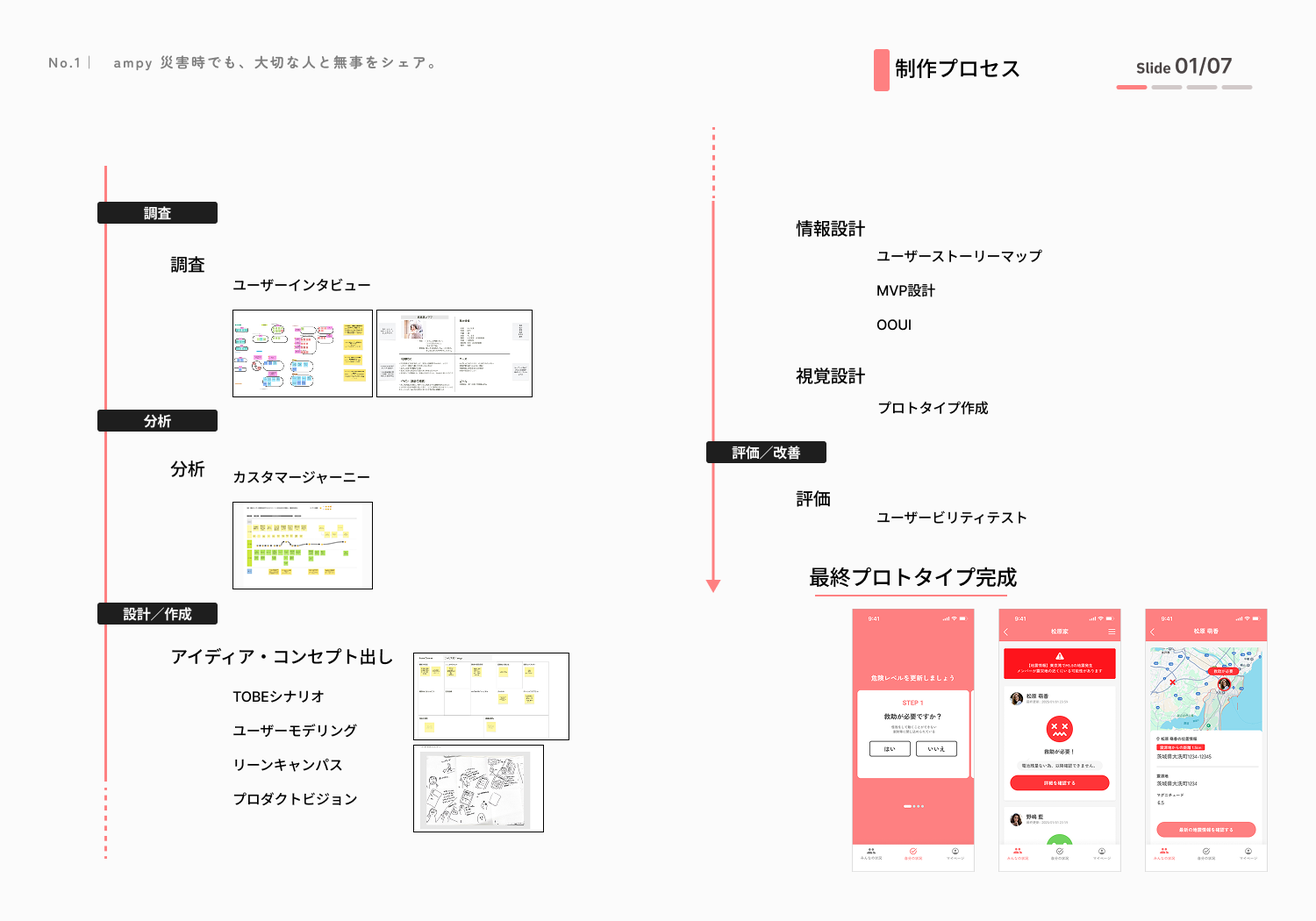
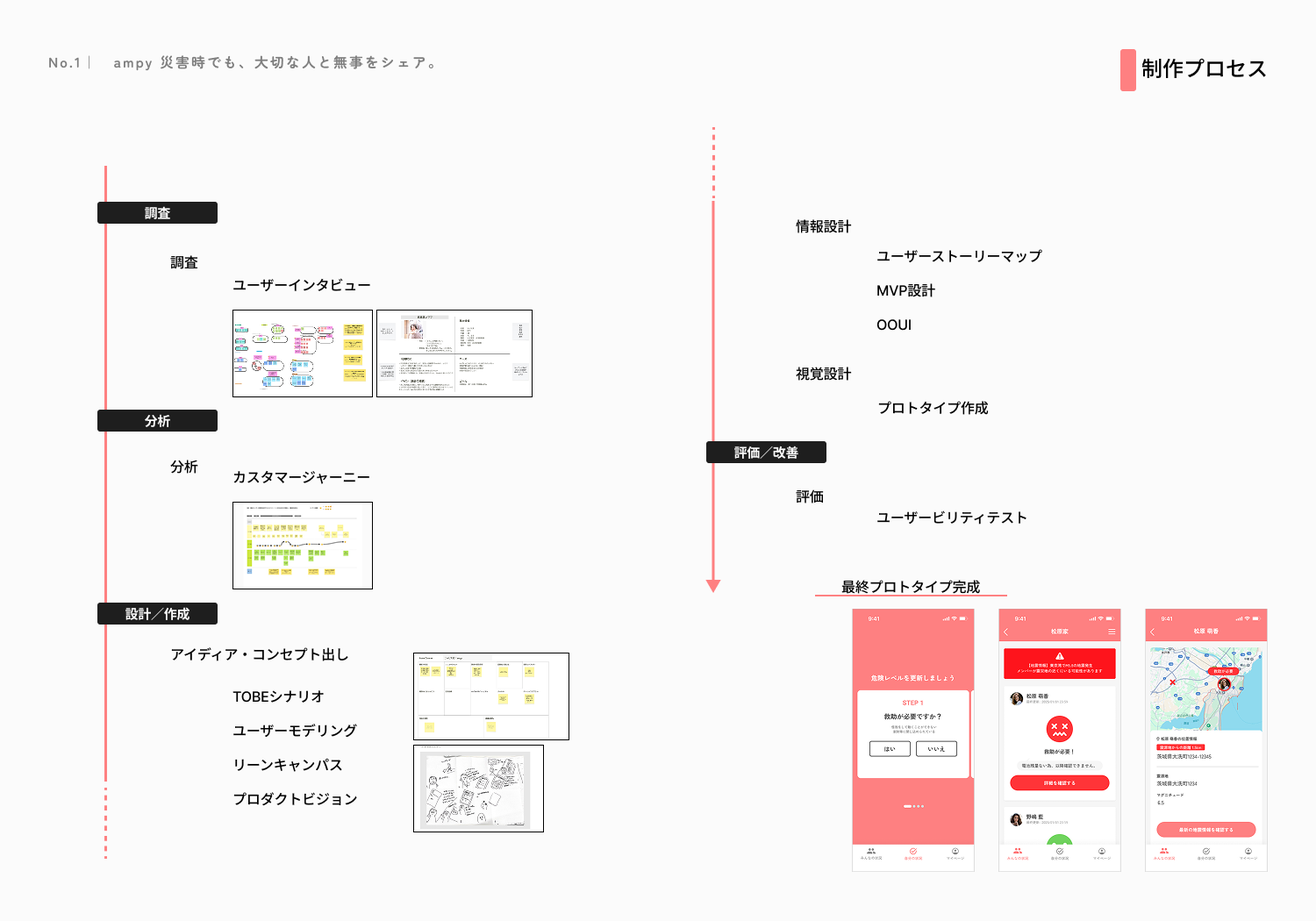
react update

diff --git a/index.html b/index.html
@@ -12,6 +12,7 @@
   --muted:#666660;--line:#d8d8d0;--line2:#b0b0a8;
   --ampy:#d94f47;--ampy-bg:#fdf1f0;
   --wheel:#652634;--wheel-bg:#f5edef;
+  --react:#6B1E2E;--react-bg:#f5ebec;
   --serif:"Noto Serif JP",serif;--sans:"Noto Sans JP",sans-serif;
   --mono:"DM Mono",monospace;--r:6px;
 }
@@ -114,22 +115,25 @@ header{position:sticky;top:0;z-index:200;background:rgba(255,255,255,0.97);backd
 .callout{padding:18px 22px;border-radius:var(--r);margin:18px 0;border-left:3px solid}
 .callout.red{border-color:var(--ampy);background:var(--ampy-bg)}
 .callout.dark{border-color:var(--wheel);background:var(--wheel-bg)}
+.callout.react{border-color:var(--react);background:var(--react-bg)}
 .callout.neutral{border-color:var(--line2);background:var(--off)}
 .callout-title{font-size:12px;font-weight:600;margin-bottom:6px}
 .callout p{font-size:13px;color:var(--ink2);margin-bottom:4px;line-height:1.7}
 
 /* PULL QUOTE */
 .pull-quote{margin:28px 0;padding:0 0 0 22px;border-left:2px solid}
-.pull-quote.red{border-color:var(--ampy)}.pull-quote.dark{border-color:var(--wheel)}
+.pull-quote.red{border-color:var(--ampy)}.pull-quote.dark{border-color:var(--wheel)}.pull-quote.react{border-color:var(--react)}
 .pull-quote-text{font-family:var(--serif);font-size:22px;font-weight:500;line-height:1.55}
 
 /* PAIN CARDS */
 .pain-grid{display:grid;grid-template-columns:repeat(3,1fr);gap:16px;margin:24px 0}
 .pain-card{padding:24px 20px;border:2px solid var(--ampy);border-radius:var(--r);background:var(--ampy-bg)}
 .pain-card.wheel{border-color:var(--wheel);background:var(--wheel-bg)}
+.pain-card.react{border-color:var(--react);background:var(--react-bg)}
 .pain-num{font-family:var(--mono);font-size:10px;letter-spacing:0.1em;text-transform:uppercase;color:var(--muted);margin-bottom:8px}
 .pain-title{font-size:16px;font-weight:700;color:var(--ampy);margin-bottom:10px;line-height:1.4}
 .pain-title.wheel{color:var(--wheel)}
+.pain-title.react{color:var(--react)}
 .pain-reason{font-size:12px;color:var(--muted);margin-bottom:10px;line-height:1.6}
 .pain-why{font-size:12px;color:var(--ink2);padding-top:10px;border-top:1px solid rgba(0,0,0,0.08);line-height:1.6}
 
@@ -268,7 +272,7 @@ header{position:sticky;top:0;z-index:200;background:rgba(255,255,255,0.97);backd
 <div class="panel active" id="tab-works">
   <div class="works-panel">
     <div class="works-intro fade-up">
-      <p>リサーチから課題定義、UI設計まで一貫して取り組んだプロジェクトを掲載しています。2案件を通じて、社会課題解決とアクセシビリティという異なるテーマへのアプローチを整理しました。</p>
+      <p>リサーチから課題定義、UI設計まで一貫して取り組んだプロジェクトを掲載しています。3案件を通じて、社会課題解決・アクセシビリティ・エンタメ体験設計という異なるテーマへのアプローチを整理しました。</p>
     </div>
     <div class="works-grid">
       <div class="proj-card fade-up" onclick="openProject('ampy')">
@@ -306,6 +310,26 @@ header{position:sticky;top:0;z-index:200;background:rgba(255,255,255,0.97);backd
           <div class="proj-card-meta">
             <span class="proj-meta-item">UXリサーチ</span>
             <span class="proj-meta-item">情報設計</span>
+            <span class="proj-meta-item">個人制作</span>
+          </div>
+          <div class="proj-card-cta"><span class="cta-label">ケーススタディを読む</span><span class="cta-arrow">→</span></div>
+        </div>
+      </div>
+      <div class="proj-card fade-up" style="transition-delay:0.16s" onclick="openProject('react')">
+        <div class="proj-card-thumb">
+          <img src="https://raw.githubusercontent.com/scent428/portfolio/main/assets/images/works/react/cover/react_cover.png" alt="Re:ACT">
+        </div>
+        <div class="proj-card-body">
+          <div class="proj-tag-row">
+            <div class="proj-dot" style="background:#6B1E2E"></div>
+            <span class="proj-tag-text">観劇体験記録アプリ</span>
+          </div>
+          <div class="proj-card-title">Re:ACT</div>
+          <div class="proj-card-desc">幕が降りても終わらない、あなたの観劇録。インタビューと複数のHMWから設計した観劇体験記録アプリ。</div>
+          <div class="proj-card-focus">フォーカス：<span>リサーチ / コンセプト設計 / UIデザイン</span></div>
+          <div class="proj-card-meta">
+            <span class="proj-meta-item">UXリサーチ</span>
+            <span class="proj-meta-item">UIデザイン</span>
             <span class="proj-meta-item">個人制作</span>
           </div>
           <div class="proj-card-cta"><span class="cta-label">ケーススタディを読む</span><span class="cta-arrow">→</span></div>
@@ -964,6 +988,311 @@ header{position:sticky;top:0;z-index:200;background:rgba(255,255,255,0.97);backd
           <li>「区間表示」vs「全体表示」のA/Bテストで判断コストの変化を測定する</li>
           <li>通過実績データ蓄積後にユーザビリティテストを実施し「判断できた」体験を測定する</li>
           <li>視覚障害・高齢者など他のアクセシビリティニーズへの応用可能性を検討する</li>
+        </ul>
+      </div>
+    </div>
+
+  </div>
+</div>
+
+
+<!-- ════ PROJECT: react ════ -->
+<div class="detail-panel" id="proj-react">
+  <div class="detail-header">
+    <button class="back-btn" onclick="closeProject()">← 戻る</button>
+    <span class="detail-breadcrumb">作品集 / <span>Re:ACT</span></span>
+  </div>
+  <div class="detail-hero">
+    <div class="detail-eyebrow">
+      <div class="proj-dot" style="background:#6B1E2E;width:7px;height:7px;border-radius:50%"></div>
+      <span style="font-family:var(--mono);font-size:10px;letter-spacing:0.1em;text-transform:uppercase;color:var(--muted)">観劇体験記録アプリ</span>
+    </div>
+    <div class="detail-title">Re:ACT</div>
+    <div class="detail-subtitle">幕が降りても終わらない、あなたの観劇録。</div>
+    <div class="detail-meta-bar">
+      <div class="dmeta"><div class="dmeta-key">担当領域</div><div class="dmeta-val">UXリサーチ・インタビュー分析・コンセプト設計・UIデザイン</div></div>
+      <div class="dmeta"><div class="dmeta-key">形式</div><div class="dmeta-val">個人制作</div></div>
+      <div class="dmeta"><div class="dmeta-key">ツール</div><div class="dmeta-val">Figma / FigJam</div></div>
+    </div>
+  </div>
+  <div class="detail-body">
+
+    <!-- 完成プロトタイプ -->
+    <div class="ds fade-up">
+      <div class="ds-label"><span>完成プロトタイプ</span></div>
+      <div class="ds-body"><p>公演情報・写真・感想を1つの体験として記録・保存する観劇記録アプリ。記録一覧・チケット詳細・新規登録の3画面で構成しています。</p></div>
+      <div class="mockup-row">
+        <div class="mockup-item zoomable">
+          <img src="https://raw.githubusercontent.com/scent428/portfolio/main/assets/images/works/react/UI/ReACT_TicketAll.png" alt="記録一覧" onclick="openLightbox(this.src, '記録一覧')">
+          <div class="mockup-label">記録一覧</div>
+        </div>
+        <div class="mockup-item zoomable">
+          <img src="https://raw.githubusercontent.com/scent428/portfolio/main/assets/images/works/react/UI/ReACT_TicketDetail.png" alt="チケット詳細" onclick="openLightbox(this.src, 'チケット詳細')">
+          <div class="mockup-label">チケット詳細</div>
+        </div>
+        <div class="mockup-item zoomable">
+          <img src="https://raw.githubusercontent.com/scent428/portfolio/main/assets/images/works/react/UI/ReACT_TixketRegist.png" alt="新規登録" onclick="openLightbox(this.src, '新規登録')">
+          <div class="mockup-label">新規登録</div>
+        </div>
+        <div class="mockup-item zoomable">
+          <img src="https://raw.githubusercontent.com/scent428/portfolio/main/assets/images/works/react/UI/ReACT_TicketRegistEdited.png" alt="新規登録（記入済）" onclick="openLightbox(this.src, '新規登録（記入済）')">
+          <div class="mockup-label">新規登録（記入済）</div>
+        </div>
+      </div>
+      <a class="figma-btn" href="https://www.figma.com/proto/veUIAYpLvFxePCGim6m0zB/%E7%84%A1%E9%A1%8C?node-id=593-388&t=paC81TXkbr7R1sWz-1" target="_blank" rel="noopener">▶ Figmaでプロトタイプを見る</a>
+    </div>
+
+    <!-- テーマ -->
+    <div class="ds fade-up">
+      <div class="ds-label"><span>テーマ</span></div>
+      <div class="pull-quote react">
+        <div class="pull-quote-text">"観劇後は感動の余韻があるのに、<br>情報が分散して後から振り返りにくい。"</div>
+      </div>
+      <div class="ds-body">
+        <p>写真・SNS・チケット・メモが別々の場所に存在し、1つの体験としてまとまって残らない——これが出発点でした。観劇記録のアプリや手帳は存在するものの、「後から自然に思い出す体験」を設計しているプロダクトは少ない。感情が冷める前に記録でき、後から余韻ごと振り返れる体験を設計することを目指しました。</p>
+      </div>
+      <div class="card-2" style="margin-top:20px">
+        <div class="mini-card">
+          <div class="mini-card-head" style="color:var(--muted)">AS-IS</div>
+          <div class="mini-card-body">観劇後は楽しかった気持ちがあるが、記録は面倒で後回しになる。写真やチケット、感想は別々の場所に残り、後から振り返りたくても情報やその時の感情を思い出しにくい。</div>
+        </div>
+        <div class="mini-card" style="border-color:var(--react);background:var(--react-bg)">
+          <div class="mini-card-head" style="color:var(--react)">TO-BE</div>
+          <div class="mini-card-body">観劇後、ユーザーは自然な流れで観劇体験を記録できる。公演情報・写真・感想が1つにまとまって保存され、後から見返した時に情報確認だけでなく、余韻まで自然に思い出せる体験設計。</div>
+        </div>
+      </div>
+    </div>
+
+    <!-- 調査 -->
+    <div class="ds fade-up">
+      <div class="ds-label"><span>調査 — ユーザーインタビュー</span></div>
+      <div class="ds-body">
+        <p>観劇・ライブ体験のある3名にインタビューを実施。「今どのように記録しているか」「何が残せていないか」を軸に、行動と感情の実態を探りました。</p>
+        <p style="font-family:var(--mono);font-size:11px;color:var(--muted)">実施人数：3名　形式：対面インタビュー</p>
+      </div>
+      <div class="img-full fade-up">
+        <img src="https://raw.githubusercontent.com/scent428/portfolio/main/assets/images/works/react/process/Interview.png" alt="インタビュー結果" onclick="openLightbox(this.src, 'インタビュー結果', true)" style="cursor:zoom-in">
+        <div class="img-cap">インタビュー結果・インサイト整理</div>
+      </div>
+      <div class="pain-grid" style="margin-top:28px">
+        <div class="pain-card react">
+          <div class="pain-num">Finding 01</div>
+          <div class="pain-title react">チケット保管の価値観が変わっている</div>
+          <div class="pain-reason">「昔はチケットを貯めていたけど、今はデジタルチケットが増えて取っておく価値を感じない」。一方で「チケットを見返すのは楽しい」という声も。</div>
+          <div class="pain-why">保管手段が変わったことで体験が途切れている。</div>
+        </div>
+        <div class="pain-card react">
+          <div class="pain-num">Finding 02</div>
+          <div class="pain-title react">写真はあるが「ひとまとまり」がない</div>
+          <div class="pain-reason">「写真で残してあるからチケットは別にいらない」と言いながらも、「どこに何があるか分からなくなる」状況が各自に起きている。</div>
+          <div class="pain-why">情報は存在するが、体験として統合されていない。</div>
+        </div>
+        <div class="pain-card react">
+          <div class="pain-num">Finding 03</div>
+          <div class="pain-title react">細かいエピソードを残したい</div>
+          <div class="pain-reason">「細かいエピソードとかも残しておきたい。それも含めてライブの記憶だから」。SNSやメモでは拾いきれない記録の場所が求められている。</div>
+          <div class="pain-why">感情と情報を一緒に残せる場所がない。</div>
+        </div>
+      </div>
+    </div>
+
+    <!-- CJM -->
+    <div class="ds fade-up">
+      <div class="ds-label"><span>分析 — カスタマージャーニーマップ（AS-IS）</span></div>
+      <div class="ds-body">
+        <p>インタビューをもとに、観劇3ヶ月前〜次の観劇予約までのAS-IS旅程を作成。「観劇当日の見た日の寝る前」フェーズで感想を記録・共有したい欲求が発生するが、余韻が冷めてしまう前にというタイミングを逃すことが多いことを確認しました。</p>
+      </div>
+      <div class="img-full">
+        <img src="https://raw.githubusercontent.com/scent428/portfolio/main/assets/images/works/react/process/CJM.png" alt="CJM（AS-IS）" onclick="openLightbox(this.src, 'CJM（AS-IS）', true)" style="cursor:zoom-in">
+        <div class="img-cap">カスタマージャーニーマップ（AS-IS）— 観劇3ヶ月前〜次の観劇予約まで</div>
+      </div>
+    </div>
+
+    <!-- HMW -->
+    <div class="ds fade-up">
+      <div class="ds-label"><span>課題定義 — HMW</span></div>
+      <div class="ds-body">
+        <p>CJMとインタビューで確認したペインを「どうすれば〜できるか？」の問いかけに変換。3つのHMWを導出し、取り組むべき2軸を選定しました。</p>
+      </div>
+      <div class="img-full">
+        <img src="https://raw.githubusercontent.com/scent428/portfolio/main/assets/images/works/react/process/HMW.png" alt="HMW" onclick="openLightbox(this.src, 'HMW', true)" style="cursor:zoom-in">
+        <div class="img-cap">HMW — ペインを問いかけに変換してアイデアを発散</div>
+      </div>
+      <div class="card-2" style="margin-top:20px">
+        <div class="mini-card" style="border-color:var(--react);background:var(--react-bg)">
+          <div class="mini-card-head" style="color:var(--react)">HMW 1</div>
+          <div class="mini-card-body">どうすれば、ペルソナは<strong>記録行為を集めたくなる楽しい体験</strong>にできる？</div>
+        </div>
+        <div class="mini-card" style="border-color:var(--react);background:var(--react-bg)">
+          <div class="mini-card-head" style="color:var(--react)">HMW 2</div>
+          <div class="mini-card-body">どうすれば<strong>観劇情報をひとまとまりの体験</strong>として思い出せるか？</div>
+        </div>
+      </div>
+    </div>
+
+    <!-- アイデア発散 -->
+    <div class="ds fade-up">
+      <div class="ds-label"><span>アイデア発散</span></div>
+      <div class="ds-body">
+        <p>2つのHMWに対し機能アイデアをスケッチ。「記録を楽しくする」軸ではコレクション体験・タスク達成感・アルバム化、「情報をまとめる」軸ではカレンダー・写真連携などのアイデアが出ました。ストーリーボードでは「観劇で感動 → 帰宅後アプリを開く → 記録 → 数日後に振り返って共有」という8コマのシナリオで体験を具体化しました。</p>
+      </div>
+      <div class="img-2up">
+        <div class="img-block">
+          <img src="https://raw.githubusercontent.com/scent428/portfolio/main/assets/images/works/react/process/Idea02.png" alt="アイデアスケッチ" onclick="openLightbox(this.src, 'アイデアスケッチ', true)" style="cursor:zoom-in">
+          <div class="img-cap">アイデアスケッチ（HMW別）</div>
+        </div>
+        <div class="img-block">
+          <img src="https://raw.githubusercontent.com/scent428/portfolio/main/assets/images/works/react/process/StoryBoard.png" alt="ストーリーボード" onclick="openLightbox(this.src, 'ストーリーボード', true)" style="cursor:zoom-in">
+          <div class="img-cap">ストーリーボード（8コマ）</div>
+        </div>
+      </div>
+    </div>
+
+    <!-- USM -->
+    <div class="ds fade-up">
+      <div class="ds-label"><span>設計 — ユーザーストーリーマップ</span></div>
+      <div class="ds-body">
+        <p>アイデアを機能に落とし込むため、行動フローを5段階に分解。各段階に必要な機能を「必須 / 入れたい / MVPではない」で優先度を整理しました。</p>
+      </div>
+      <div class="img-full">
+        <img src="https://raw.githubusercontent.com/scent428/portfolio/main/assets/images/works/react/process/USM.png" alt="ユーザーストーリーマップ" onclick="openLightbox(this.src, 'ユーザーストーリーマップ', true)" style="cursor:zoom-in">
+        <div class="img-cap">ユーザーストーリーマップ — 行動フロー5段階と機能優先度</div>
+      </div>
+      <div class="step-flow" style="margin-top:16px">
+        <div class="step-item"><div class="step-n">01</div><div class="step-t">観劇後に記録を始める</div></div>
+        <div class="step-item"><div class="step-n">02</div><div class="step-t">公演情報をまとめる</div></div>
+        <div class="step-item"><div class="step-n">03</div><div class="step-t">観劇情報を残す</div></div>
+        <div class="step-item"><div class="step-n">04</div><div class="step-t">思い出を保存する</div></div>
+        <div class="step-item"><div class="step-n">05</div><div class="step-t">後から見返す</div></div>
+      </div>
+    </div>
+
+    <!-- サービスビジョン -->
+    <div class="ds fade-up">
+      <div class="ds-label"><span>サービスビジョン・リーンキャンバス</span></div>
+      <div class="ds-body">
+        <p>「観劇体験をコレクションする記録アプリ」というハイレベルコンセプトのもと、3年後に実現したいサービスビジョンとリーンキャンバスを作成しました。写真フォルダやSNS・紙のチケット保管と異なり、公演情報と感情の記録を一つにまとめ、後から自然に思い出せる見返し体験に強みを持つプロダクトとして定義しています。</p>
+      </div>
+      <div class="img-full">
+        <img src="https://raw.githubusercontent.com/scent428/portfolio/main/assets/images/works/react/process/ServiceVision_LeanCanvas.png" alt="サービスビジョン・リーンキャンバス" onclick="openLightbox(this.src, 'サービスビジョン・リーンキャンバス', true)" style="cursor:zoom-in">
+        <div class="img-cap">サービスビジョン・リーンキャンバス</div>
+      </div>
+    </div>
+
+    <!-- ワイヤーフレーム -->
+    <div class="ds fade-up">
+      <div class="ds-label"><span>ワイヤーフレーム — 一覧表示5パターンの探索</span></div>
+      <div class="ds-body">
+        <p>「記録を見返す体験」の設計にあたり、一覧画面の表示形式を5パターンで検討しました。チケットという物理メディアをどのようにデジタルに昇華させるか、情報優先度と視覚的な楽しさのバランスを意識しました。</p>
+      </div>
+      <div class="feature-grid">
+        <div class="feature-card">
+          <div class="feature-card-imgs">
+            <img src="https://raw.githubusercontent.com/scent428/portfolio/main/assets/images/works/react/wireframe/AlbumPattern_01_TicketHolder.png" alt="Pattern 01" onclick="openLightbox(this.src, 'Pattern 01 チケットホルダー型')" style="cursor:zoom-in">
+          </div>
+          <div class="feature-card-body">
+            <div class="feature-card-title">01. チケットホルダー型</div>
+            <div class="feature-card-desc">左インデックス＋スタック表示。月別グループで日付を強調。</div>
+          </div>
+        </div>
+        <div class="feature-card">
+          <div class="feature-card-imgs">
+            <img src="https://raw.githubusercontent.com/scent428/portfolio/main/assets/images/works/react/wireframe/AlbumPattern_02_TicketToguro.png" alt="Pattern 02" onclick="openLightbox(this.src, 'Pattern 02 チケット型')" style="cursor:zoom-in">
+          </div>
+          <div class="feature-card-body">
+            <div class="feature-card-title">02. チケット型</div>
+            <div class="feature-card-desc">ミシン目ありの本物チケット風。左右にスクロール。</div>
+          </div>
+        </div>
+        <div class="feature-card">
+          <div class="feature-card-imgs">
+            <img src="https://raw.githubusercontent.com/scent428/portfolio/main/assets/images/works/react/wireframe/AlbumPattern_03_TicketOver.png" alt="Pattern 03" onclick="openLightbox(this.src, 'Pattern 03 重ね表示型')" style="cursor:zoom-in">
+          </div>
+          <div class="feature-card-body">
+            <div class="feature-card-title">03. 重ね表示型</div>
+            <div class="feature-card-desc">カードが奥行きをもって重なる。コレクション感を演出。</div>
+          </div>
+        </div>
+        <div class="feature-card">
+          <div class="feature-card-imgs">
+            <img src="https://raw.githubusercontent.com/scent428/portfolio/main/assets/images/works/react/wireframe/AlbumPattern_04_Album.png" alt="Pattern 04" onclick="openLightbox(this.src, 'Pattern 04 アルバム型')" style="cursor:zoom-in">
+          </div>
+          <div class="feature-card-body">
+            <div class="feature-card-title">04. アルバム型</div>
+            <div class="feature-card-desc">写真をサムネ表示するリスト。視覚的な記憶を手がかりに。</div>
+          </div>
+        </div>
+        <div class="feature-card">
+          <div class="feature-card-imgs">
+            <img src="https://raw.githubusercontent.com/scent428/portfolio/main/assets/images/works/react/wireframe/AlbumPattern_05_TicketGrid.png" alt="Pattern 05" onclick="openLightbox(this.src, 'Pattern 05 グリッド型')" style="cursor:zoom-in">
+          </div>
+          <div class="feature-card-body">
+            <div class="feature-card-title">05. グリッド型</div>
+            <div class="feature-card-desc">情報量を抑えたコンパクト一覧。全体俯瞰に適している。</div>
+          </div>
+        </div>
+      </div>
+      <div class="callout react" style="margin-top:8px">
+        <div class="callout-title">採用パターンとその理由</div>
+        <p>最終的に日付スタブ＋月別グループのリスト型（01案ベース）を採用。観劇記録において「いつ観たか」は「何を観たか」と同等に重要な検索キーになるという判断から、日付を視覚的に強調する左スタブ構造を軸にしました。</p>
+      </div>
+      <div class="img-2up" style="margin-top:20px">
+        <div class="img-block">
+          <img src="https://raw.githubusercontent.com/scent428/portfolio/main/assets/images/works/react/wireframe/ticketRegist.png" alt="登録画面ワイヤー" onclick="openLightbox(this.src, '登録画面ワイヤー')" style="cursor:zoom-in">
+          <div class="img-cap">登録画面ワイヤー</div>
+        </div>
+        <div class="img-block">
+          <img src="https://raw.githubusercontent.com/scent428/portfolio/main/assets/images/works/react/wireframe/ticketDetail.png" alt="詳細画面ワイヤー" onclick="openLightbox(this.src, '詳細画面ワイヤー')" style="cursor:zoom-in">
+          <div class="img-cap">詳細画面ワイヤー</div>
+        </div>
+      </div>
+    </div>
+
+    <!-- 思考の軌跡 -->
+    <div class="ds fade-up">
+      <div class="ds-label"><span>思考の軌跡 — デザイン判断の記録</span></div>
+      <div class="ds-body">
+        <p>ビジュアルデザインは「ワインレッド×半券構造」という方向性から始まり、複数案の探索・統合・転換を経て現在の形に至りました。単に「良いデザイン」を目指すのではなく、ユーザーシナリオに立ち返ることで判断の軸を維持した過程を記録しています。</p>
+      </div>
+      <div class="insight-box" style="margin-bottom:20px">
+        <div class="insight-box-title">Critical Turn ★ — 最も重要な転換点</div>
+        <div class="insight-box-body">Figmaで実装された画面を見た時点で「ペルソナから離れていないか、高級感を持たせたい気持ちが先行している」という違和感が生まれました。自問したのは「帰りの電車でふと息をついた頃に開く、このデザインは自然に開けるか？」——答えはNoでした。高級感を「捨てる」のではなく「<strong style="color:rgba(255,255,255,0.9)">主役をコンテンツに戻す</strong>」という整理でリセット。デザインの「入口の重さ」は記録継続率に直結するという教訓を得ました。</div>
+      </div>
+      <div class="decision-grid">
+        <div class="decision-item">
+          <div class="decision-label">Phase 1-3 — 探索と収束</div>
+          <div class="decision-body">A案（ワインレッド×半券）・B案（ネオン）・C案（活版×深緑）の3案でトーン探索。B案を早期除外し、C案の質感＋A案の構造を統合した案Fとして詳細設計へ進む。</div>
+        </div>
+        <div class="decision-item">
+          <div class="decision-label">Phase 4 — 転換</div>
+          <div class="decision-body">「重たい」という気づきから方向転換。高級感よりコンテンツを主役に戻す整理でベースをリセット。</div>
+        </div>
+        <div class="decision-item">
+          <div class="decision-label">Phase 5 — 再考</div>
+          <div class="decision-body">「ワインレッドは私の好みかもしれない」という問いを立て、グレー・ブルー・テラコッタ・グリーンの4色案で検証。カードの構造が共通していればアクセントカラーは交換可能と確認。</div>
+        </div>
+        <div class="decision-item">
+          <div class="decision-label">Phase 6 — 現在地</div>
+          <div class="decision-body">完成度は上がったが未解決の問いも残る。月グルーパーの存在感・開きやすさとの両立・様々なジャンルの公演との共存が次の検証課題。</div>
+        </div>
+      </div>
+      <div style="margin-top:20px">
+        <a class="figma-btn" href="react_thinking_journal.html" target="_blank" rel="noopener" style="background:var(--react)">思考の軌跡を全文で読む →</a>
+      </div>
+    </div>
+
+    <!-- 学びと今後 -->
+    <div class="ds fade-up">
+      <div class="ds-label"><span>学びと今後</span></div>
+      <div class="ds-body">
+        <p>今回のプロセスを通じて繰り返し問われたのは、「デザインの見た目の良さ」と「使われるシーンとの合致」は別軸であるということでした。記録系アプリにとって「入口の重さ」は継続率に直結し、感情が冷める前に記録するというコアバリューを守るためには、開きやすさを格調よりも優先する判断が必要でした。</p>
+      </div>
+      <div class="next-step">
+        <div class="next-step-title">今後のステップ</div>
+        <ul>
+          <li>実際の観劇ファンユーザーへのユーザビリティテストを実施し、「余韻ごと振り返れる体験」が設計意図通りに伝わっているか検証する</li>
+          <li>ワインレッドをアプリカラーとして固定した場合に、様々なジャンルの公演記録が並ぶ画面での違和感がないか実コンテンツで確認する</li>
+          <li>月グルーパーの視認性・開きやすさとブランド感の両立について、A/Bテストで検証する</li>
         </ul>
       </div>
     </div>
